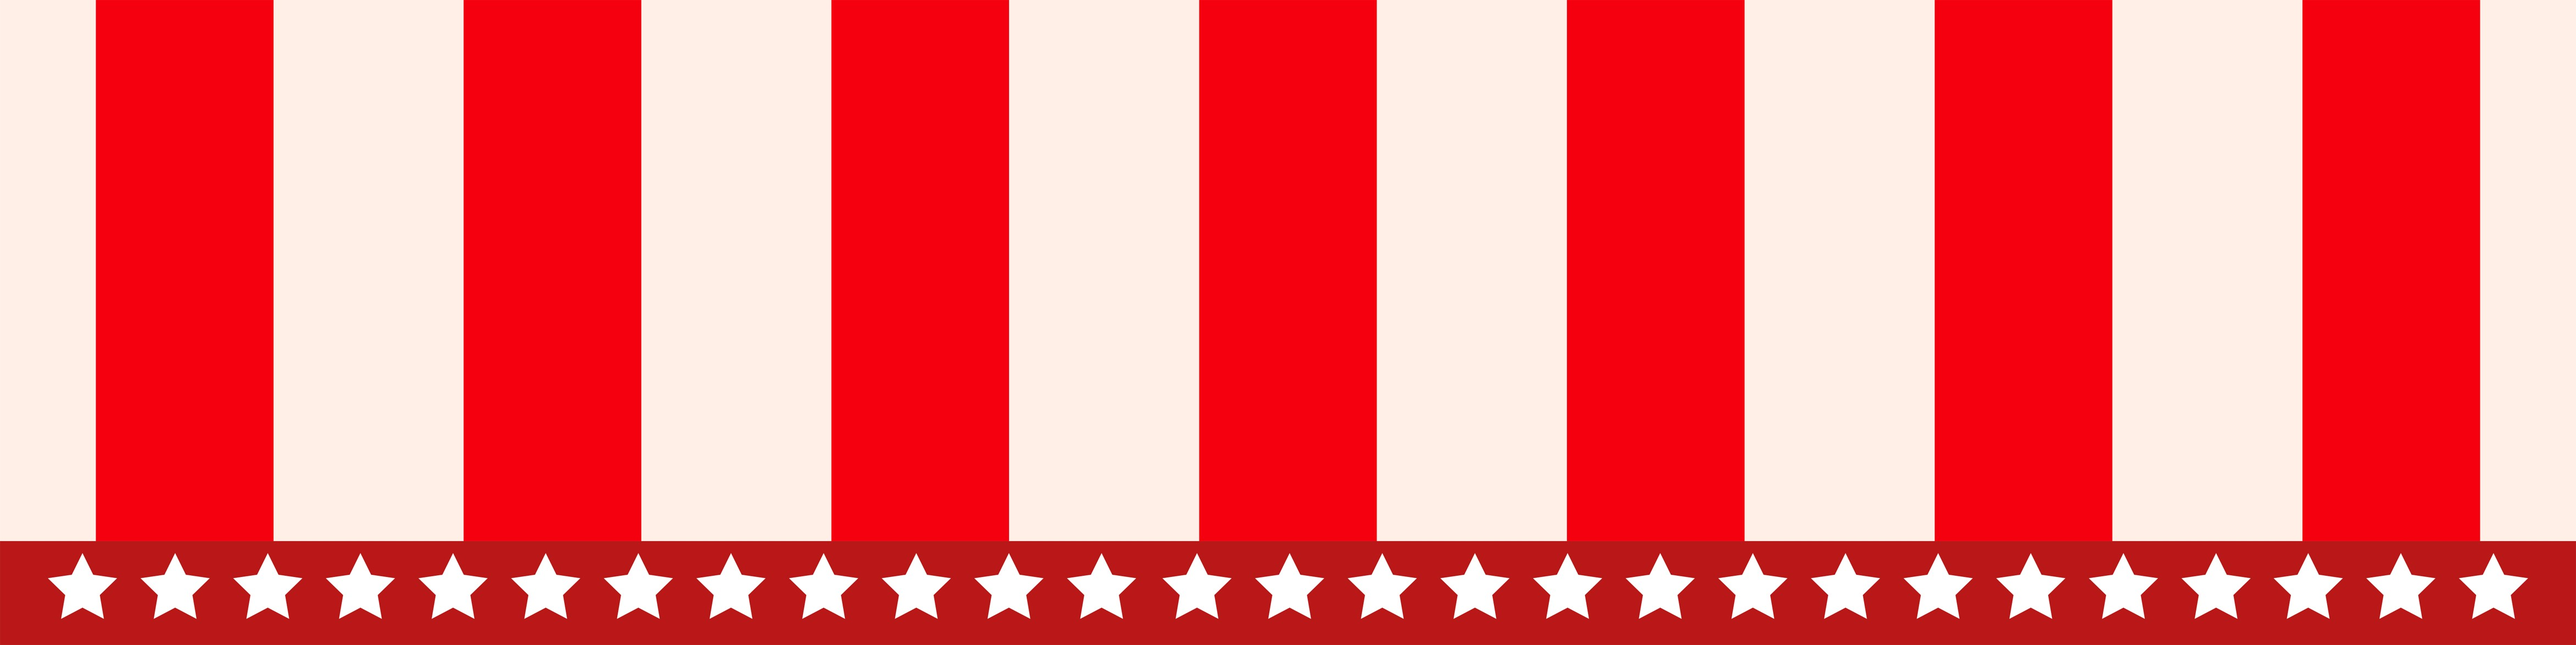
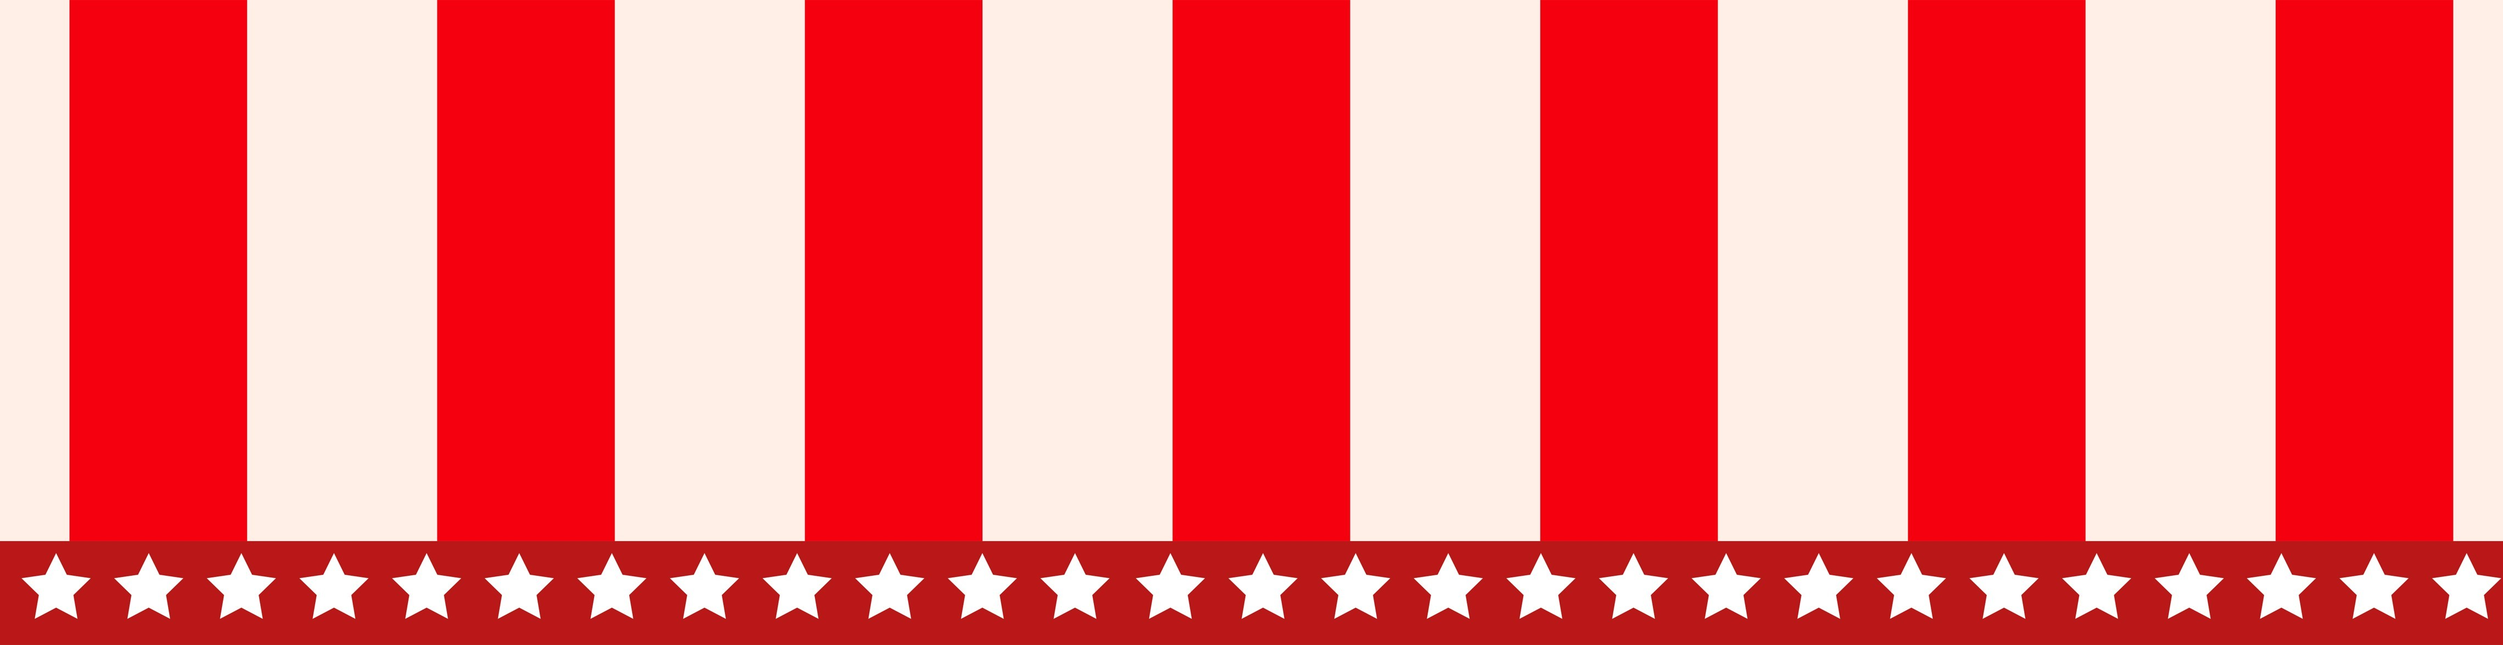
added some decoration

diff --git a/src/components/home/about-section/APropos.tsx b/src/components/home/about-section/APropos.tsx
@@ -4,10 +4,9 @@ import React, { useRef } from "react";
 import { useGSAP } from "@gsap/react";
 import { event } from "@/content/event";
 import { ScrollTrigger }  from "gsap/all";
-import Earth from "@/components/scenes/APropos";
-import { SceneContainer } from "@/components/scenes/SceneContainer";
 import { Paragraph } from "@/components/text/Paragraph";
-import { Typography, Box, Stack, useTheme, Divider } from "@mui/material";
+import { Typography, Box, Stack, useTheme } from "@mui/material";
+import { Star } from "@mui/icons-material";
 
 export const APropos = () => {
     const theme = useTheme();
@@ -38,42 +37,49 @@ export const APropos = () => {
                     position: 'relative',
                 }}
             >
-                <SceneContainer
-                    image={
-                    <Box
-                        sx={{
-                            width: { xs: 260, sm: 280 },
-                            height: { xs: 260, sm: 280 },
-                            overflow: "hidden",
-                            borderRadius: "50%",
-                            position: 'relative',
-                        }}
-                    >
-                        <Image
-                            fill
-                            src={event.logo}
-                            alt={`${event.name} logo`}
-                            style={{ objectFit: "cover" }}
-                        />
-                    </Box>
-                    }
-                    canvas={
-                        <Earth />
-                    }
-                />
+                <Box
+                    sx={{
+                        width: { xs: 260, sm: 280 },
+                        height: { xs: 260, sm: 280 },
+                        overflow: "hidden",
+                        borderRadius: "50%",
+                        position: 'relative',
+                    }}
+                >
+                    <Image
+                        fill
+                        src={event.logo}
+                        alt={`${event.name} logo`}
+                        style={{ objectFit: "cover" }}
+                    />
+                </Box>
             </Box>
-            <Stack justifyContent={'center'}>
+            <Stack gap={2} justifyContent={'center'} alignItems={'center'}>
                 <Typography 
                     variant="h3" 
                     sx={{ 
-                        mb: 2,
                         fontSize: { xs: '1.3rem', sm: '2rem', md: '2rem', lg: '2rem' },
                     }}
                     className="animated" 
                 >
-                    A propos de <span style={{ color: theme.palette.primary.main }}>{event.name}</span>
+                    The Greatest Event <span style={{ color: theme.palette.primary.main }}>IN THE WORLD</span>
+                    <Box
+                        className="animated"
+                        sx={{
+                            display: 'flex',
+                            alignItems: 'center',
+                            justifyContent: 'center',
+                            gap: 2,
+                        }}
+                    >
+                        <Star sx={{ color: theme.palette.warning.main, fontSize: 32 }} />
+                        <Star sx={{ color: theme.palette.warning.main, fontSize: 32 }} />
+                        <Star sx={{ color: theme.palette.warning.main, fontSize: 32 }} />
+                        <Star sx={{ color: theme.palette.warning.main, fontSize: 32 }} />
+                        <Star sx={{ color: theme.palette.warning.main, fontSize: 32 }} />
+                    </Box>
                 </Typography>
-                <Box className="animated">
+                <Box className="animated" textAlign={'center'}>
                     <Paragraph>{event.description.secondary}</Paragraph>
                 </Box>
             </Stack>

diff --git a/src/components/Footer.tsx b/src/components/Footer.tsx
@@ -1,9 +1,12 @@
 "use client"
 
 import React from 'react';
-import { Box, Container, Typography, Stack, useTheme } from '@mui/material';
+import { Box, Container, Typography, Stack, IconButton, useTheme } from '@mui/material';
 import Link from 'next/link';
-
+import FacebookIcon from '@mui/icons-material/Facebook';
+import LinkedInIcon from '@mui/icons-material/LinkedIn';
+import InstagramIcon from '@mui/icons-material/Instagram';
+import TikTokIcon from '@mui/icons-material/MusicNote'; // TikTok doesn't have a dedicated icon in MUI
 
 const Footer: React.FC = () => {
     const theme = useTheme();
@@ -28,16 +31,51 @@ const Footer: React.FC = () => {
                         © {new Date().getFullYear()} Aerobotix INSAT
                     </Typography>
 
-                    <Stack direction="row" spacing={3}>
-                        <Link href={"/about-us"}>
-                            About
-                        </Link>
-                        <Link href={"/contact-us"}>
-                            Contact
-                        </Link>
-                        <Link href={"https://privacy.aeroday.tn/"}>
-                            Privacy Policy
-                        </Link>
+                    <Stack direction="row" spacing={1}>
+                            <IconButton
+                                component="a"
+                                href="https://www.facebook.com/yourpage"
+                                target="_blank"
+                                rel="noopener noreferrer"
+                                color="inherit"
+                            >
+                                <FacebookIcon />
+                            </IconButton>
+                            <IconButton
+                                component="a"
+                                href="https://www.linkedin.com/in/yourprofile"
+                                target="_blank"
+                                rel="noopener noreferrer"
+                                color="inherit"
+                            >
+                                <LinkedInIcon />
+                            </IconButton>
+                            <IconButton
+                                component="a"
+                                href="https://www.instagram.com/yourprofile"
+                                target="_blank"
+                                rel="noopener noreferrer"
+                                color="inherit"
+                            >
+                                <InstagramIcon />
+                            </IconButton>
+                            <IconButton
+                                component="a"
+                                href="https://www.tiktok.com/@yourprofile"
+                                target="_blank"
+                                rel="noopener noreferrer"
+                                color="inherit"
+                            >
+                                <TikTokIcon />
+                            </IconButton>
+                        </Stack>
+
+                    <Stack direction="row" spacing={3} alignItems="center">
+                        <Stack direction="row" spacing={3}>
+                            <Link href={"/about-us"}>About</Link>
+                            <Link href={"/contact-us"}>Contact</Link>
+                            <Link href={"https://privacy.aeroday.tn/"}>Privacy Policy</Link>
+                        </Stack>
                     </Stack>
                 </Stack>
             </Container>

diff --git a/src/app/page.tsx b/src/app/page.tsx
@@ -1,3 +1,4 @@
+import { Box } from "@mui/material";
 import { axes } from "@/content/axes";
 import { Divider } from "@mui/material";
 import Hero from "@/components/home/Hero";
@@ -11,6 +12,21 @@ import ContactForm from "@/components/contact-us/Form";
 export default function Home() {
     return (
         <>
+            <Box
+                sx={{
+                    top: 0,
+                    left: 0,
+                    zIndex: 0,
+                    width: '100dvw',
+                    height: { xs: '14dvh', sm: '14dvh', md: '18dvh' },
+                    overflow: 'hidden',
+                    position: 'absolute',
+                    backgroundImage: "url('/assets/images/deco/strand.jpg')",
+                    backgroundRepeat: 'repeat-x',
+                    backgroundSize: 'auto 150%', 
+                    backgroundPosition: 'bottom',
+                }}
+            />
             <Hero />    
             <Divider />
             <About />

diff --git a/src/components/home/about-section/About.tsx b/src/components/home/about-section/About.tsx
@@ -1,26 +1,24 @@
 "use client"
 
 import React from "react";
-import { Container } from "@mui/material";
+import { Stack } from "@mui/material";
 import Badges from "@/components/home/about-section/Badges";
 import Sponsors from "@/components/home/about-section/Sponsors";
 import { APropos } from "@/components/home/about-section/APropos";
 
 const About: React.FC = () => {
     return (
-        <Container 
-            sx={{ 
-                gap: 6,
-                display: 'flex', 
-                flexDirection: 'column', 
-                justifyContent: 'space-around',
-                minHeight: '100vh'
-            }}
+        <Stack
+            gap={4}
+            zIndex={1}
+            minHeight="100vh"
+            position="relative"
+            justifyContent="space-around"
         >
             <APropos />
             <Badges />
             <Sponsors />
-        </Container>
+        </Stack>
     );
 };
 

diff --git a/src/components/challenges/Page.tsx b/src/components/challenges/Page.tsx
@@ -9,6 +9,7 @@ import Title from "@/components/text/Title";
 import { challenges } from "@/content/challenges";
 import MaxCard from "@/components/challenges/MaxCard";
 import ProfileCard from "@/components/team/ProfileCard";
+import PersonIcon from '@mui/icons-material/Person'; 
 
 export default function Page({ id }: { id: number }) {
     const challenge = challenges[id];
@@ -37,7 +38,8 @@ export default function Page({ id }: { id: number }) {
                 alignItems={'center'}
                 justifyContent={'space-around'} 
             >
-                <Box ref={titleRef} className='animated'>
+                <Box ref={titleRef} className='animated' display="flex" alignItems="center" gap={1}>
+                    <PersonIcon color="primary" fontSize="large" />
                     <Title label="Responsable" />
                 </Box>
                 <Box ref={profileRef} className='animated'>

diff --git a/src/components/axes/Page.tsx b/src/components/axes/Page.tsx
@@ -9,6 +9,7 @@ import { Box, Stack } from "@mui/material";
 import Title from "@/components/text/Title";
 import MaxCard from "@/components/axes/MaxCard";
 import ProfileCard from "@/components/team/ProfileCard";
+import PersonIcon from '@mui/icons-material/Person'; 
 
 export default function Page({ id }: { id: number }) {
     const axe = axes[id];
@@ -37,7 +38,8 @@ export default function Page({ id }: { id: number }) {
                 alignItems={'center'}
                 justifyContent={'space-around'} 
             >
-                <Box ref={titleRef} className='animated'>
+                <Box ref={titleRef} className='animated' display="flex" alignItems="center" gap={1}>
+                    <PersonIcon color="primary" fontSize="large" />
                     <Title label="Responsable" />
                 </Box>
                 <Box ref={profileRef} className='animated'>

diff --git a/src/components/navigation/mobile/Navbar.tsx b/src/components/navigation/mobile/Navbar.tsx
@@ -19,12 +19,20 @@ const Navbar: React.FC = () => {
         <>
             <AppBar
                 sx={{
+                    p: 1,
                     position: 'fixed',
-                    backdropFilter: "blur(10px)",
-                    backgroundColor: `transparent`,
+                    background: 'none',
+                    border: 'none',
+                    boxShadow: 'none'
                 }}
             >
-                <Toolbar>
+                <Toolbar sx={{ 
+                    p: 1,
+                    borderRadius: 100,
+                    border: '1px solid',
+                    borderColor: "divider",
+                    backgroundColor: `#FAF7F0`,
+                }}>
                     <IconButton onClick={toggleDrawer(true)}>
                         <MenuIcon />
                     </IconButton>

diff --git a/src/components/home/Hero.tsx b/src/components/home/Hero.tsx
@@ -11,6 +11,7 @@ import { SceneContainer } from '@/components/scenes/SceneContainer';
 import { Paragraph } from '@/components/text/Paragraph';
 import { Box, Typography, Chip, Button, Stack } from '@mui/material';
 import { Countdown } from './Countdown';
+import Image from 'next/image';
 
 const Hero: React.FC = () => {
     const theme = useTheme();   
@@ -42,6 +43,7 @@ const Hero: React.FC = () => {
             sx={{ 
                 minHeight: '76vh',
             }} 
+            position={'relative'}
             flexDirection={{ xs: 'column', sm: 'column', md: 'row', lg: 'row' }} 
             justifyContent={
                     { xs: 'space-around', sm: 'space-around', md: 'space-between' }

diff --git a/src/components/about-us/Gallery.tsx b/src/components/about-us/Gallery.tsx
@@ -44,7 +44,7 @@ export const Gallery: React.FC<GalleryProps> = ({ index }) => {
                     const [firstWord, ...rest] = gallery.label.split(" ");
                     return (
                         <>
-                            <span style={{ color: theme.palette.secondary.main }}>{firstWord}</span>{" "}
+                            <span style={{ color: theme.palette.primary.main }}>{firstWord}</span>{" "}
                             {rest.join(" ")}
                         </>
                     );

diff --git a/src/components/team/ProfileCard.tsx b/src/components/team/ProfileCard.tsx
@@ -14,7 +14,7 @@ interface ProfileCardProps {
 const ProfileCard: React.FC<ProfileCardProps> = ({ item }) => {
     return (
         <Card
-            className="w-full max-w-xs rounded-4xl shadow-md hover:shadow-lg transition-shadow duration-300"
+            className="w-full w-xs rounded-4xl shadow-md hover:shadow-lg transition-shadow duration-300"
         >
             <CardActionArea>
                 <Box

diff --git a/src/components/axes/MinCard.tsx b/src/components/axes/MinCard.tsx
@@ -11,7 +11,7 @@ interface MinCardProps {
 
 const MinCard: React.FC<MinCardProps> = ({ item }) => {
     return (
-        <Card className='max-w-md'>
+        <Card className='max-w-lg'>
             <CardActionArea href={item.href}>
                 <Box
                     sx={{
